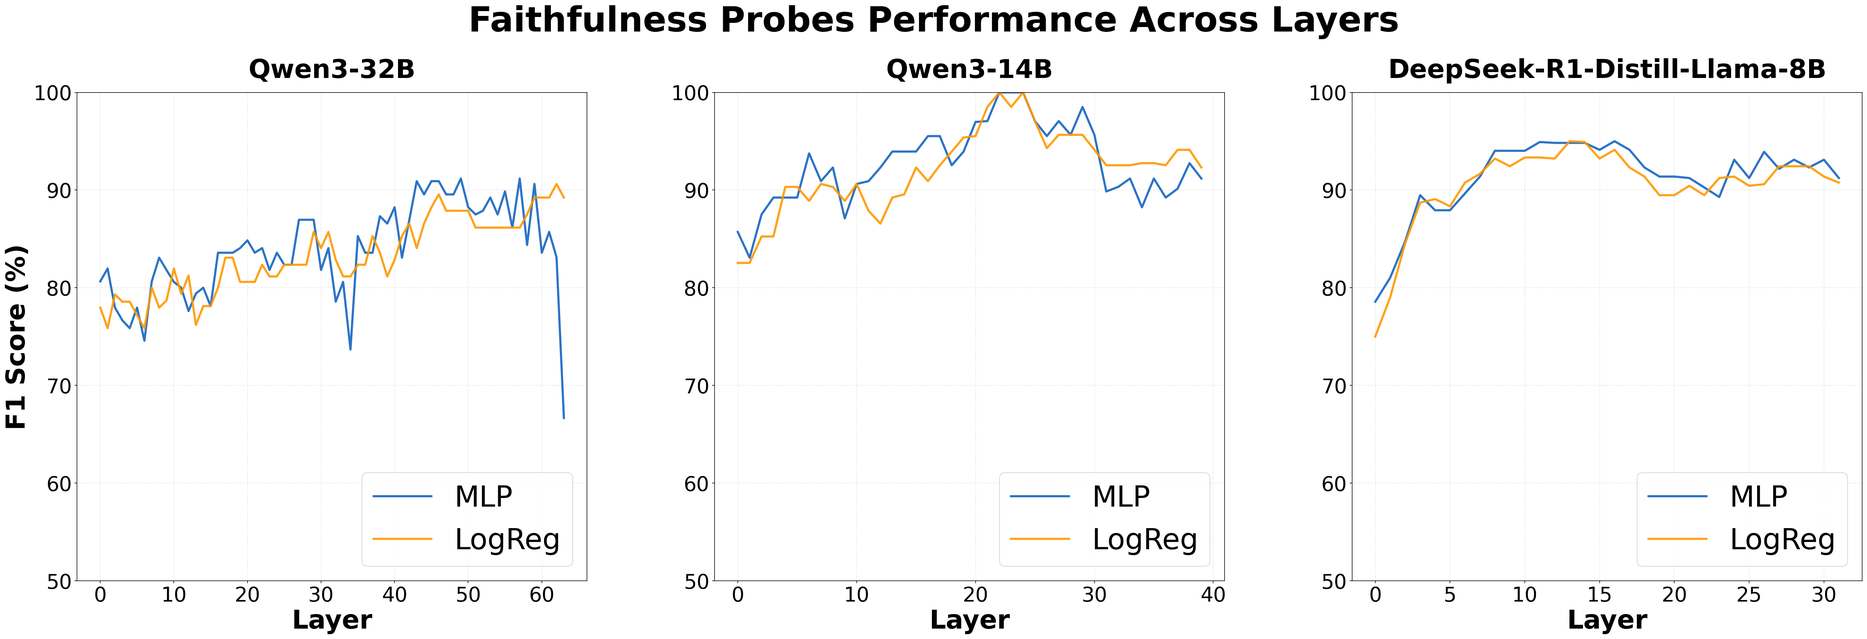
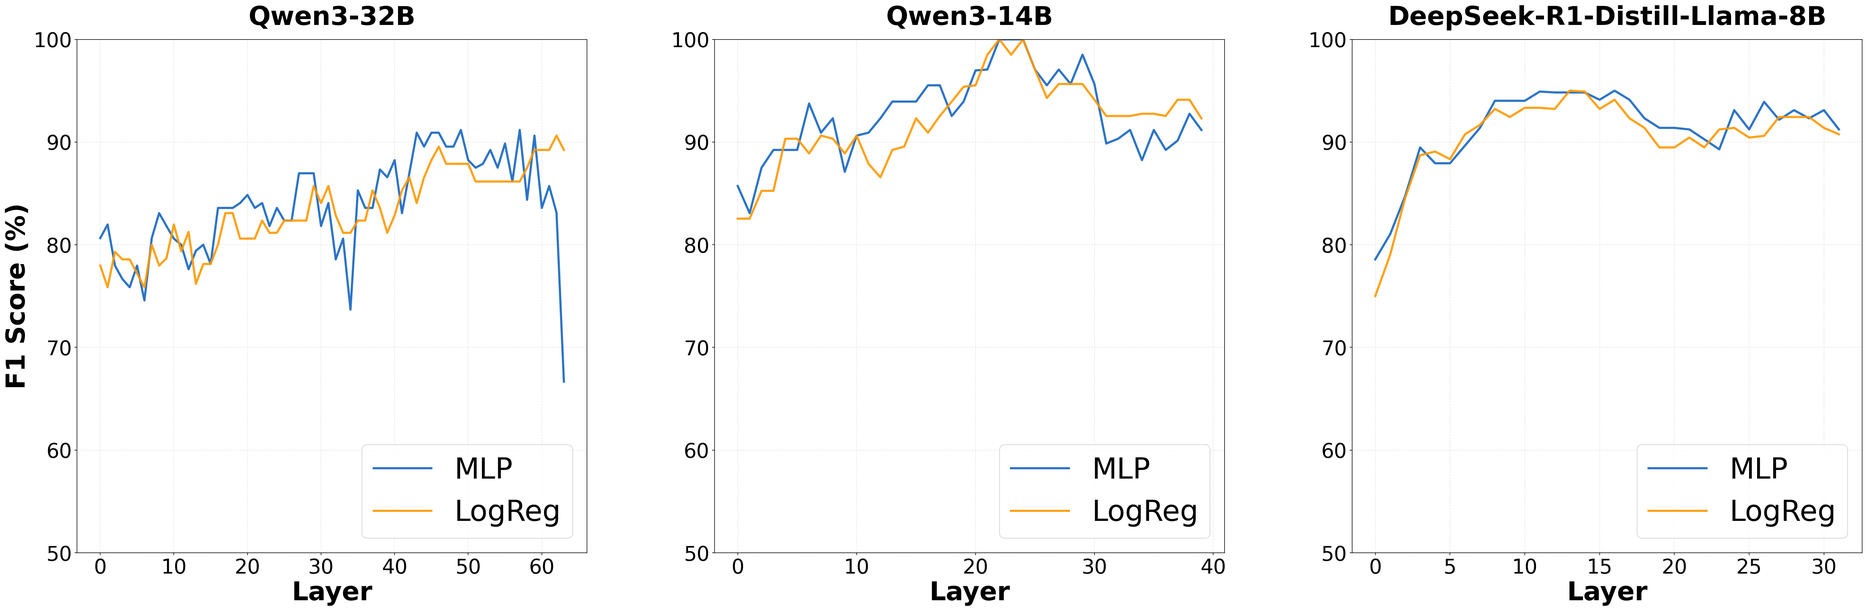
replotted stuff

diff --git a/plot_variations.py b/plot_variations.py
@@ -458,59 +458,95 @@ def plot_variation_1_hintwise(
         "professor": "#FF9800",        # Orange
     }
     
-    # Panel specifications (row index, direction, metric, ylabel)
-    panels = [
-        (0, "positive_WU", "faithful_pct", "+ Steering: Faithfulness Rate", "Faithful %"),
-        (1, "negative_WF", "unfaithful_pct", "- Steering: Unfaithfulness Rate", "Unfaithful %"),
-    ]
-    
     # Bar positioning
     n_hints = len(hints)
     bar_width = 0.25
     x_base = np.arange(len(approaches))
     
-    for row_idx, direction, metric, row_title, ylabel in panels:
-        for col_idx, model in enumerate(models):
-            ax = axes[row_idx, col_idx]
+    # =========================================================================
+    # TOP ROW: Monitorability Gain (Stacked: Faithful + Hint-Mentioning)
+    # =========================================================================
+    for col_idx, model in enumerate(models):
+        ax = axes[0, col_idx]
+        
+        for h_idx, hint in enumerate(hints):
+            faithful_vals = []
+            hint_vals = []
+            for approach in approaches:
+                data = hintwise_data.get(model, {}).get(approach, {}).get(hint)
+                if data:
+                    metrics_obj = getattr(data, "positive_WU", None)
+                    f_val = getattr(metrics_obj, "faithful_pct", 0) if metrics_obj else 0
+                    h_val = getattr(metrics_obj, "hint_mentioning_pct", 0) if metrics_obj else 0
+                else:
+                    f_val = 0
+                    h_val = 0
+                faithful_vals.append(f_val)
+                hint_vals.append(h_val)
             
-            # Plot 3 hints per approach
-            for h_idx, hint in enumerate(hints):
-                values = []
-                for approach in approaches:
-                    data = hintwise_data.get(model, {}).get(approach, {}).get(hint)
-                    if data:
-                        metrics_obj = getattr(data, direction, None)
-                        value = getattr(metrics_obj, metric, 0) if metrics_obj else 0
-                    else:
-                        value = 0
-                    values.append(value)
-                
-                offset = (h_idx - 1) * bar_width
-                ax.bar(x_base + offset, values, bar_width * 0.9, 
-                       label=hint_labels[h_idx] if (row_idx == 0 and col_idx == 0) else "",
-                       color=hint_colors[hint], alpha=0.85)
+            offset = (h_idx - 1) * bar_width
+            faithful_arr = np.array(faithful_vals)
+            hint_arr = np.array(hint_vals)
             
-            # Styling
-            ax.set_xticks(x_base)
-            ax.set_xticklabels(approach_labels, fontsize=36)
-            ax.tick_params(axis="y", labelsize=30)
-            ax.set_ylim(0, 100)
-            ax.grid(axis="y", alpha=0.3, linestyle="--")
+            # Base bar: Faithful % (solid)
+            ax.bar(x_base + offset, faithful_arr, bar_width * 0.9, 
+                   color=hint_colors[hint], alpha=0.85)
             
-            # Y-axis label only on first column
-            if col_idx == 0:
-                ax.set_ylabel(ylabel, fontsize=40, fontweight="bold")
+            # Stacked bar: Hint-Mentioning % (hatched)
+            ax.bar(x_base + offset, hint_arr, bar_width * 0.9, bottom=faithful_arr,
+                   color=hint_colors[hint], alpha=0.5, hatch="//", edgecolor="white")
+        
+        # Styling
+        ax.set_xticks(x_base)
+        ax.set_xticklabels(approach_labels, fontsize=36)
+        ax.tick_params(axis="y", labelsize=30)
+        ax.set_ylim(0, 100)
+        ax.grid(axis="y", alpha=0.3, linestyle="--")
+        
+        if col_idx == 0:
+            ax.set_ylabel("Monitorability Gain %", fontsize=40, fontweight="bold")
+        
+        # Legend only on top-right panel
+        if col_idx == 2:
+            from matplotlib.patches import Patch
+            legend_elements = [Patch(facecolor=hint_colors[h], label=l) 
+                              for h, l in zip(hints, hint_labels)]
+            legend_elements.append(Patch(facecolor="gray", alpha=0.85, label="Faithful %"))
+            legend_elements.append(Patch(facecolor="gray", alpha=0.5, hatch="//", edgecolor="white", label="Hint-Mentioning %"))
+            ax.legend(handles=legend_elements, loc="upper right", fontsize=24, 
+                     title="Legend", title_fontsize=22)
+    
+    # =========================================================================
+    # BOTTOM ROW: Unfaithfulness Rate (simple bars, no stacking)
+    # =========================================================================
+    for col_idx, model in enumerate(models):
+        ax = axes[1, col_idx]
+        
+        for h_idx, hint in enumerate(hints):
+            values = []
+            for approach in approaches:
+                data = hintwise_data.get(model, {}).get(approach, {}).get(hint)
+                if data:
+                    metrics_obj = getattr(data, "negative_WF", None)
+                    value = getattr(metrics_obj, "unfaithful_pct", 0) if metrics_obj else 0
+                else:
+                    value = 0
+                values.append(value)
             
-            # Model name as column title (only on first row) - using absolute positioning via fig.text
-            # We skip ax.set_title to avoid padding guess-work and potential overlaps
-            
-            # Legend only on top-right panel (rightest plot)
-            if row_idx == 0 and col_idx == 2:
-                from matplotlib.patches import Patch
-                legend_elements = [Patch(facecolor=hint_colors[h], label=l) 
-                                  for h, l in zip(hints, hint_labels)]
-                ax.legend(handles=legend_elements, loc="upper right", fontsize=30, 
-                         title="Hint Type", title_fontsize=28)
+            offset = (h_idx - 1) * bar_width
+            ax.bar(x_base + offset, values, bar_width * 0.9, 
+                   label=hint_labels[h_idx] if col_idx == 0 else "",
+                   color=hint_colors[hint], alpha=0.85)
+        
+        # Styling
+        ax.set_xticks(x_base)
+        ax.set_xticklabels(approach_labels, fontsize=36)
+        ax.tick_params(axis="y", labelsize=30)
+        ax.set_ylim(0, 100)
+        ax.grid(axis="y", alpha=0.3, linestyle="--")
+        
+        if col_idx == 0:
+            ax.set_ylabel("Unfaithful %", fontsize=40, fontweight="bold")
     
     # Model Names (Column Headers) - High up, near main title
     # Columns are at ~0.15, ~0.48, ~0.81 roughly in 3-col layout with wspace=0.15
@@ -829,11 +865,8 @@ def plot_variation_4(
         ax.grid(axis="both", alpha=0.3, linestyle="--")
         ax.legend(loc="lower right", fontsize=40)
     
-    fig.suptitle("Faithfulness Probes Performance Across Layers", 
-                 fontsize=48, fontweight="bold", y=1.02)
-    
     plt.tight_layout()
-    plt.subplots_adjust(wspace=0.25, top=0.88)
+    plt.subplots_adjust(wspace=0.25, top=0.92)
     
     if output_path:
         fig.savefig(output_path, dpi=150, bbox_inches="tight")

diff --git a/paper.md b/paper.md
@@ -1,0 +1,218 @@
+\begin{abstract}
+Chain-of-Thought (CoT) explanations are essential for the monitoring and safety of Large Language Models (LLMs), yet they are susceptible to unfaithful rationalization that could obfuscate dangerous behaviors. 
+While prior work has focused on black-box methods, the internal mechanisms and white-box control of faithfulness remain under-explored. 
+In this paper, we employ representation engineering to investigate the latent geometry of faithfulness across a suite of reasoning models of increasing sizes. 
+We demonstrate that instances of faithfulness are, to some extent, encoded as linear directions within middle-to-late layers, as shown by successful probing and steering of the models' internals. 
+We find that linear steering interventions achieve faithfulness recovery rates of up to 42\% while maintaining collateral effects below 5\%. 
+Furthermore, we find that off-policy steering methods have a comparable utility to on-policy approaches.
+\end{abstract}
+
+\section{Introduction} \label{sec:intro}
+The rise of Large Language Models (LLMs) capable of advanced reasoning has made Chain-of-Thought (CoT) explanations a cornerstone of model monitorability \citep{meek2025measuringchainofthoughtmonitorabilityfaithfulness, DBLP:journals/corr/abs-2503-11926}. 
+However, the utility of these explanations depends entirely on their \textit{faithfulness}—the degree to which the reasoning trace actually reflects the model's internal decision-making process \citep{DBLP:conf/nips/TurpinMPB23}. 
+Recent studies highlight that models often produce highly plausible but unfaithful rationalizations \citep{DBLP:journals/corr/abs-2503-08679, chua2025deepseekr1reasoningmodels, DBLP:journals/corr/abs-2505-05410}. 
+As reasoning capabilities advance, traditional black-box monitoring could become increasingly insufficient to detect dangerous and undesired behaviours \citep{DBLP:journals/corr/abs-2507-11473}.
+
+In this paper, we investigate the internal mechanics of CoT faithfulness through the lens of representation engineering \citep{}. 
+We explore whether faithfulness is a property that can be identified, monitored, and controlled directly within a model's latent space. Using a suite of reasoning models, we generate activation directions associated with faithful and unfaithful reasoning across diverse domains and safety-related contexts.
+
+Our contributions are threefold. 
+First, we develop a comprehensive framework to train and evaluate faithfulness probes and steering vectors. 
+Second, we identify that instances of faithfulness are, to some extent, represented as high-level linear directions in middle-to-late layers. 
+Third, we benchmark multiple representation engineering approaches, observing a performance proximity between on-policy and off-policy directions—validating off-policy data as a viable intervention source—and demonstrating that linear steering is more robust than non-linear methods, achieving recovery rates up to 42\% with minimal collateral effects. 
+Our results position light-weight white-box methods as promising tools for the oversight of LLM-based systems.
+
+\section{Related Work} \label{sec:rel-work}
+
+% two/three paragraphs
+
+% Evaluating Faithfulness in CoT Explanations
+\textbf{Evaluating Faithfulness of CoT Explanations.}
+Historically, NLP interpretability distinguished faithful explanations—accurately reflecting the model's reasoning—from those merely plausible to humans \citep{jacovi-goldberg-2020-towards}. 
+In the LLM era, faithfulness is often operationalized as a property of the model’s CoT, through the causal dependency between the CoT components and the final answer \citep{DBLP:journals/corr/abs-2307-13702}, or counterfactual simulatability in adversarial settings biasing the model toward a specific choice \citep{chua2025deepseekr1reasoningmodels, DBLP:journals/corr/abs-2505-05410, DBLP:conf/nips/TurpinMPB23}.
+
+% Unfaithfulness and CoT Monitorability
+\textbf{Unfaithfulness and CoT Monitorability.}
+Faithfulness is a prerequisite for CoT monitorability \citep{DBLP:journals/corr/abs-2503-11926}, yet training paradigms like RLHF could incentivize human-friendly rather than faithful explanations \citep{DBLP:conf/iclr/SharmaTKDABDHJK24}. 
+Reasoning models remain susceptible to bias despite improvements in faithfulness \citep{chua2025deepseekr1reasoningmodels}.
+In this scenario, and as the model's latent reasoning improves, CoT monitoring remains an insufficient guardrail \citep{DBLP:journals/corr/abs-2507-11473}.
+
+% Control Through Representation Engineering
+\textbf{Control Through Representation Engineering.}
+Current faithfulness mitigations rely on black-box approaches \citep{DBLP:conf/ijcnlp/LyuHSZRWAC23, DBLP:journals/corr/abs-2307-11768, DBLP:journals/corr/abs-2403-05518}. 
+In contrast, representation engineering \citep{DBLP:journals/corr/abs-2310-01405} enables white-box control via probing and steering vectors \citep{DBLP:conf/acl/RimskyGSTHT24, DBLP:journals/corr/abs-2502-03407}, successfully targeting high-level concepts as linear representations \citep{DBLP:journals/corr/abs-2310-06824,DBLP:conf/nips/ArditiOSPPGN24, DBLP:journals/corr/abs-2310-15154, DBLP:journals/corr/abs-2507-01786}.
+However, applying these internal interventions to CoT faithfulness remains a gap, particularly in determining whether such complex behavior is encoded linearly \citep{DBLP:conf/icml/ParkCV24} or privilege non-linear geometries \citep{DBLP:journals/corr/abs-2411-03343, DBLP:journals/corr/abs-2505-24535}.
+
+\section{Methodology} \label{sec:setup}
+
+% Models we use
+\textbf{Models:} 
+We investigate reasoning models of increasing size. 
+We use DeepSeek-R1-Distill-Llama-8B (Llama-3.1-8B distilled via SFT on reasoning traces from DeepSeek-R1) \citep{deepseekai2025deepseekr1incentivizingreasoningcapability}, Qwen3-14B, and Qwen3-32B \citep{DBLP:journals/corr/abs-2505-09388}. 
+For maximum reproducibility, we set the temperature to 0. 
+However, for the Qwen3 models, coupling greedy decoding with "thinking mode" caused severe repetition loops during CoT generation. 
+To mitigate this, we ran the Qwen3 models with a presence penalty of 1.2 to enforce termination. 
+All models were loaded in BF16 precision. 
+
+% Existing datasets we use
+\textbf{Datasets:} 
+Using three MMLU macro-domains \citep{hendryckstest2021} totaling 2516 prompts, we filter for correctly answered questions.
+We then generate adversarial samples via a full factorial design, prepending safety-relevant biasing hints \citep{DBLP:journals/corr/abs-2505-05410} to every question. 
+Retaining only traces where the model adopts the hint in their final answer, we classify them as faithful or unfaithful, and split them via stratified sampling to preserve hint distribution. 
+The train split is used to extract faithfulness directions, while the test split evaluates our probes and steering vectors. 
+For more details on the adversarial hint prompts, see Appendix A \ref{}.
+
+\textbf{Faithfulness Operationalization} is done based on the counterfactual simulatability of CoT reasoning \citep{DBLP:conf/nips/TurpinMPB23}.
+We define a CoT trace as faithful if (1) it reaches the conclusion suggested by the biasing hint and (2) it acknowledges the hint's influence\citep{DBLP:journals/corr/abs-2505-05410}.
+
+\textbf{Generating Faithful CoT Reasoning Traces:} 
+Using the modified MMLU prompts with biasing hints, we elicit \emph{on-policy} CoT traces.
+These reasoning traces are classified as faithful or unfaithful, and then the steps are annotated to identify the CoT steps responsible for the classification, using two separate LLM-judges \citep{DBLP:journals/corr/abs-2412-05579, DBLP:conf/nips/ZhengC00WZL0LXZ23}.
+To assess whether \emph{off-policy} data yields effective linear representations \citep{kirch2026impactoffpolicytrainingdata}, we generate synthetic CoT traces using predefined contrastive templates.
+\citet{kirch2026impactoffpolicytrainingdata} find that off-policy data is sufficient for training high quality probes, we go beyond and show it is also useful data for obtaining steering vectors.
+%%% Appendix: Examples and low-level details
+For more details on these aspects of the pipeline, see Appendix B \ref{}.
+
+\textbf{Extracting Directions of Faithfulness in Latent Space:}
+From a train split (70\%) of the on-policy CoT traces, we extract activations from the last-token of each annotated step, ending with a set of activations from faithful and unfaithful CoT traces. 
+We also extract activations from our contrastive off-policy prompts with the same approach.
+To find a \emph{linear} direction of faithfulness we compute the difference between the average of faithful and unfaithful activations \citep{DBLP:conf/acl/RimskyGSTHT24}.
+To get \emph{non-linear} faithfulness directions, we train a two-hidden-layer 8-neuron MLP probe to distinguish between faithful and unfaithful activations. 
+Adapting the \emph{probe-guided latent intervention} method from \citep{DBLP:journals/corr/abs-2411-03343}, we compute the gradient of the probe’s prediction with respect to the input activations. 
+This allows the probe to identify a dynamic, sample-specific direction to steer along complex, non-linear boundaries where subtle features of faithfulness may reside.
+
+
+% Detecting Unfaithfulness with Linear and MLP Probes
+\textbf{Detecting Unfaithfulness with Linear and MLP Probes:}
+To assess the alignment between the correlational features detected by probes and the causal effects of our steering vectors, we trained both linear and non-linear classifiers. 
+We employed logistic regression for the linear probe and utilized the MLP architecture described above for the non-linear variant.
+
+% Steering with three approaches
+\textbf{Steering Faithfulness:} We utilize the extracted directions to intervene on the model's hidden states, either adding the vectors (positive steering) to promote faithfulness or subtracting it (negative steering) to promote unfaithfulness. 
+As a sanity check, we apply both interventions to originally faithful and unfaithful prompts to verify consistent, opposing behavioral shifts.
+We evaluate three distinct steering methods: (1) linear vectors derived from on-policy activations; (2) linear vectors constructed from off-policy paired contrastive data; and (3) prompt-guided, sample-specific interventions generated via our MLP probe. 
+% For each method, we perform a hyperparameter sweep across injection layers and steering strengths to identify optimal configurations. 
+We also benchmark against random vector baselines of equivalent magnitude.
+
+% Evaluation
+\textbf{Evaluation Metrics.} For each steering configuration, we track the following metrics as a percentage of the total steered answers of one pre-steering state (faithful, unfaithful):
+\begin{itemize}[noitemsep,topsep=0pt]
+    \item \textbf{Faithfulness (Recovery and Degradation) Rates:} The rates of originally unfaithful answers that are converted to faithful answers with positive steering (and of originally faithful answers that are converted to unfaithful ones with negative steering).
+    \item \textbf{Hint-Mentioning Rate:} The proportion of answers that do not qualify as fully faithful but still explicitly acknowledge the hint's existence after steering from an unfaithful state, i.e. the hint is mentioned but the model does not choose the hinted option. 
+    \item \textbf{Correctness Rate:} The proportion of answers that result in the correct final option (so the model is not adopting the hint) after steering previously wrong answers. % this is noise in our findings, because pos and neg have same effect
+    \item \textbf{Collateral Effect Rates:} The rates of originally unfaithful answers that are converted to faithful with negative steering, and of originally faithful answers that are converted to unfaithful ones with positive steering.
+\end{itemize}
+
+\textbf{Finding the Optimal Layer:}
+We perform a hyperparameter sweep across injection layers and steering strengths, selecting the configurations that maximize the ratio between average faithfulness recovery and collateral effect rates.
+We observe that optimal configurations vary substantially by model and approach, see Appendix \ref{}. 
+
+
+\section{Results}  \label{sec:results}
+
+\textbf{Probing for Faithfulness:}
+Both linear and MLP probes performed strongly, with peak layers' F1 scores consistently between 90\% and 100\%, see Figure \ref{}. 
+Linear and non-linear probes perform on par. 
+% Crucially, for linear directions, the close proximity between optimal probing and steering layers reinforces the causal relevance of these regions.
+Our probing results show that we can identify which latent vectors are faithful. 
+However, this ability to identify faithfulness does not result in equally strong steering ability.
+
+\textbf{Steering towards Faithfulness:}
+In Figure \ref{fig:main-steering-plot} we show the steering performance (as measured through faithfulness and hint-mentioning), for steering unfaithful answers towards faithfulness (and for steering faithful answers to unfaithfulness).
+We find that positive steering yields a wide range of faithfulness recovery rates, from limited (7.6\%, MLP on DeepSeek-R1-Llama-8B) to substantial (42\%, linear on Qwen3-14B), with no evident correlation between steering efficacy and model size. 
+% include info about other papers' steering performance
+We find that steering efficacy varies substantially depending on the specific hint (see Appendix ??).
+
+\textbf{Steering Effects Unrelated to Faithfulness:}
+Notably, both positive and negative steering results in high rates of correctness recovery, see Figure \ref{} in the Appendix.
+This was surprising to us, as we expected positive steering to encourage ``good'' behaviour.
+We interpret this finding as the correctness recovery simply being noise. 
+In a minority of instances, steering led to an "other-error" state, where the model selected an incorrect option unrelated to the hint. 
+Within these non-faithfulness states (both correct answers and other-error answers), failed positive steering still resulted in varying hint-mentioning rates, from 4.14\% in Qwen3-14B to 38.15\% in Qwen3-32B, see Figure \ref{}. 
+Conversely, failed negative steering still resulted in varying hint-ablation rates, that is when the model stops acknowledging the hint. 
+
+\textbf{Linear vs Off-Policy vs MLP:} 
+The linear approach works as well or better than off-policy and MLP in terms of achieving a high faithfulness recovery rate (see Figure \ref{fig:main-steering-plot}) while keeping collateral effects (where faithful answers become unfaithful) below 5\%, see Figure \ref{} in Appendix \ref{}. 
+The off-policy approach yields comparable utility. 
+In contrast, our non-linear MLP method offers no clear advantage over simpler linear interventions:
+in Figure \ref{1.b} we find that the unfaithfulness degradation rate is low, and in Appendix \ref{} we find that the collateral damage is high.
+
+% We may want to move this paragraph to the appendix
+\textbf{Best Steering Configurations:} Optimal steering tends to target the middle-to-late layers of the networks, see Appendix \ref{}, 
+% (e.g., layer 40 for Qwen3-32B or layer 15 for DeepSeek-8B), 
+suggesting that faithfulness is a high-level conceptual feature synthesized after initial processing. 
+We also find that linear and off-policy approaches in small and medium models have the exact same optimal layer (layer 15 for 8B and layer 19 for 14B).
+% The layer convergence between linear and off-policy approaches in small and medium models (aligning at layer 15 for 8B and layer 19 for 14B) could signal that off-policy methods are capable of capturing the model's native linear representations.
+
+
+\begin{figure}[t]
+    \centering
+    \includegraphics[width=0.95\linewidth]{figures/main/variation_4.png}
+    \caption{Faithfulness probe performance (F1 score) across layers for three reasoning models. Both linear (LogReg) and non-linear (MLP) probes achieve high accuracy (90--100\%) in middle-to-late layers, with no substantial difference between probe types.}
+    \label{fig:probing-plot}
+\end{figure}
+
+\begin{figure}[t]
+    \centering
+    \includegraphics[width=0.95\linewidth]{figures/main/variation_11_monitorability_with_random.png}
+    \caption{Steering performance across models and approaches. \textbf{Top-left:} Monitorability gain from positive steering on unfaithful answers (stacked: faithfulness + hint-mentioning). \textbf{Top-right:} Intended unfaithfulness degradation from negative steering. \textbf{Bottom-left:} Collateral effects (positive steering making faithful answers unfaithful). \textbf{Bottom-right:} Unintended monitorability gain from negative steering. Linear and off-policy approaches achieve the highest intended effects with lowest collateral damage.}
+    \label{fig:main-steering-plot}
+\end{figure}
+
+% \begin{wrapfigure}{t}{0.5\textwidth}
+%     \centering
+%     \includegraphics[width=.9\linewidth]{figures/NeurIPS-paper/ind-ood-accs.png}
+%     \caption{Accuracy of CIFAR-10 pre-trained models on OOD datasets (on the y-axis) against accuracy on CIFAR-10 (on the x-axis). The dashed line (which coincides with the green and blue lines) is the $y=x$ line.}
+%     \label{fig:ood_acc_shift}
+% \end{wrapfigure}
+
+% \begin{table}[]
+%     \centering
+%     \begin{tabular}{c|cccc}
+%     \toprule
+%                  & \multicolumn{4}{c}{Representation Length} \\[5pt]
+%     % \cline{2-5}
+%     Training $k$ &              64    &              128   &              256   &              512   \\
+%     \midrule
+%     3            &  $0.909 \pm 0.029$ &  $0.869 \pm 0.015$ &  $0.870 \pm 0.052$ &  $0.887 \pm 0.015$ \\
+%     5            &  $0.797 \pm 0.026$ &  $0.688 \pm 0.077$ &  $0.759 \pm 0.131$ &  $0.820 \pm 0.166$ \\
+%     10           &  $0.866 \pm 0.103$ &  $0.579 \pm 0.018$ &  $0.643 \pm 0.231$ &  $0.736 \pm 0.171$ \\
+%     20           &  $0.662 \pm 0.170$ &  $0.538 \pm 0.230$ &  $0.532 \pm 0.380$ &  $0.481 \pm 0.337$ \\
+%     \bottomrule
+%     \end{tabular}
+%     \vspace{0.3cm}
+%     \caption{Accuracy on CIFAR-10 test set of trained models with different $k$ and $|r|$ values.}
+%     \label{tab:cifar10_acc_table}
+%     \vspace{-0.4cm}
+% \end{table}
+
+
+\section{Limitations and Future Work} \label{sec:related_work}
+% Our findings are subject to several limitations. 
+% First, we conducted a limited sweep of layers and coefficients, which may overlook more granular optima.
+Our testing focused on narrow and unrealistic scenarios, specifically post-hoc rationalization of hints within an in-distribution setting. 
+Additionally, our evaluation did not include larger model scales, where steering dynamics may differ.
+
+Future work could test these steering interventions across a richer pool of unfaithfulness cases, incorporating out-of-distribution tasks \citep{DBLP:journals/corr/abs-2506-10922, DBLP:journals/corr/abs-2503-08679} and, more importantly, agentic settings \citep{DBLP:journals/corr/abs-2412-04984} to assess real-world robustness.
+
+\section{Conclusion} \label{sec:conc}
+In this work, we demonstrated that some narrow instances of faithfulness in reasoning models live as high-level conceptual feature encoded in middle-to-late layers. 
+Our results show that linear steering achieves recovery rates of up to 42\% with collateral effects below 5\%, while non-linear MLP methods offer no clear advantage over simpler interventions. 
+While limited to non-agentic scenarios, these findings establish white-box interventions as a viable path for monitoring and controlling model faithfulness.
+
+
+
+
+
+
+
+
+
+
+
+
+
+
+
+
+
